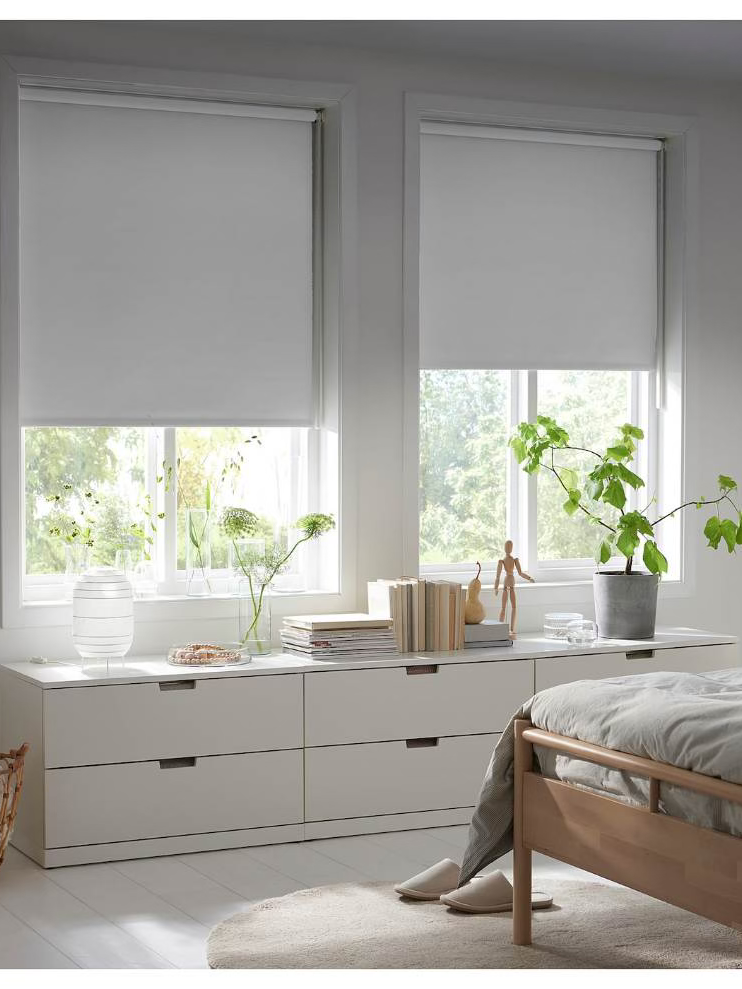
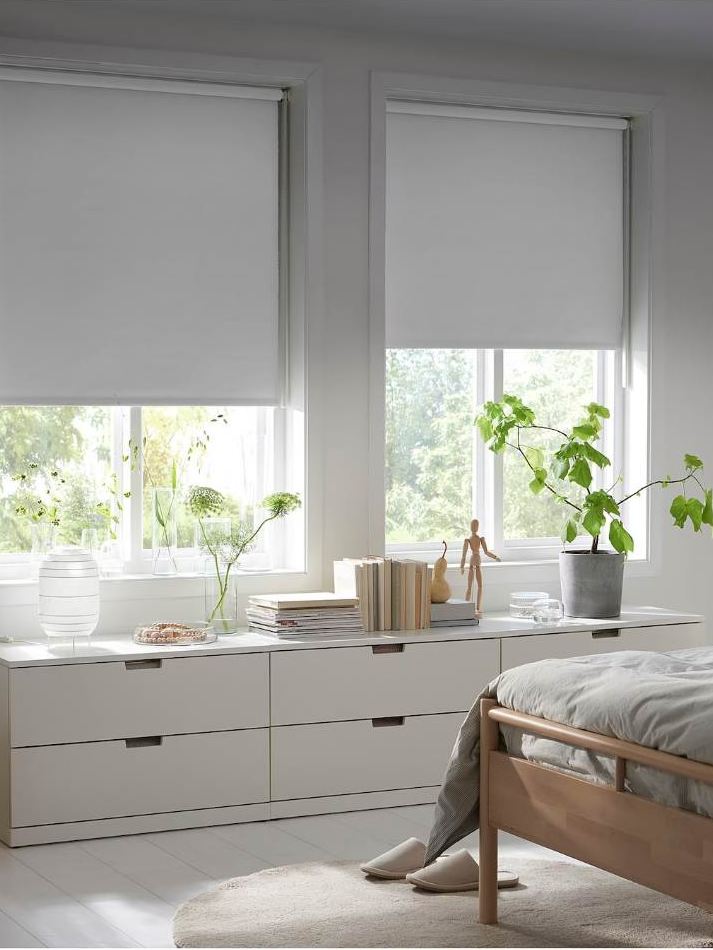
Added carousel component to the hero section

Changed region(s): [[0.0, 0.0611, 1.0, 1.0], [0.0, 0.0, 1.0, 0.0305]]

diff --git a/src/app/page.js b/src/app/page.js
@@ -4,16 +4,13 @@ import { useEffect, useRef, useState } from "react";
 import Image from "next/image";
 import ContactForm from "@/components/ContactForm";
 import { bp_large } from "../../constants/breakpoints";
+import Carousel from "react-multi-carousel";
+import "react-multi-carousel/lib/styles.css";
 
 let index = 0;
 
 export default function Home() {
-  const slidesImages = [
-    "/background/slides/Slide 1.png",
-    "/background/slides/Slide 2.png",
-    "/background/slides/Slide 3.png",
-  ];
-  const singleImages = [
+  const slides = [
     "/background/singles/image0000011.png",
     "/background/singles/image0000021.png",
     "/background/singles/image0000031.png",
@@ -26,36 +23,10 @@ export default function Home() {
     "/background/singles/image0000101.png",
   ];
 
-  const [currentSlideImage, setCurrentSlideImage] = useState(slidesImages[0]);
-
-  // Changes the background image of hero section every 5 seconds
-  useEffect(() => {
-    const interval = setInterval(() => {
-      index < slidesImages.length - 1 ? (index += 1) : (index = 0);
-      setCurrentSlideImage(slidesImages[index]);
-    }, 4000);
-
-    return () => clearInterval(interval);
-  });
-
-  // Changes the hero's section background image based on arrow selected
-  function handleArrowClick(e) {
-    if (e.target.alt == "left arrow") {
-      index > 0 ? (index -= 1) : (index = slidesImages.length - 1);
-      setCurrentSlideImage(slidesImages[index]);
-    } else {
-      index < slidesImages.length - 1 ? (index += 1) : (index = 0);
-      setCurrentSlideImage(slidesImages[index]);
-    }
-  }
-
   return (
     <main>
       {/* Hero section */}
-      <HeroSection
-        currentSlideImage={currentSlideImage}
-        handleArrowClick={handleArrowClick}
-      />
+      <HeroSection slides={slides} />
 
       {/* About section */}
       <AboutSection />
@@ -74,48 +45,76 @@ export default function Home() {
 
 // ----------------------- LOCAL COMPONENTS -----------------------
 
-function HeroSection({ currentSlideImage, handleArrowClick }) {
-  const screenWidth = useRef(0);
+function HeroSection({ slides }) {
+  const settings = {
+    dots: true,
+    infinite: true,
+    speed: 500,
+    slidesToShow: 3,
+    slidesToScroll: 1,
+  };
 
   return (
-    <>
-      {/* Background images */}
-      <div className="relative" id="hero">
-        <div className="h-full w-full">
-          <div className="w-full">
-            <Image
-              className="w-full h-full object-cover"
-              width={3000}
-              height={3000}
-              src={currentSlideImage}
-              alt="blinds"
-            />
-          </div>
-        </div>
-      </div>
-
-      {/* Buttons to go next and previous */}
-      <div className="bg-gray-950/50 w-full relative bottom-12 py-2">
-        <div className="container mx-auto flex justify-between">
-          <button onClick={(e) => handleArrowClick(e)}>
-            <Image
-              src="/icons/211689_left_arrow_icon (1).svg"
-              alt="left arrow"
-              width={32}
-              height={32}
-            />
-          </button>
-          <button onClick={(e) => handleArrowClick(e)}>
-            <Image
-              src="/icons/211607_right_arrow_icon.svg"
-              alt="right arrow"
-              width={32}
-              height={32}
-            />
-          </button>
-        </div>
-      </div>
-    </>
+    <section className="lg:h-108" id="hero">
+      <Carousel
+        additionalTransfrom={0}
+        arrows
+        autoPlay
+        autoPlaySpeed={3000}
+        centerMode={false}
+        className="h-full"
+        containerClass="container-with-dots"
+        dotListClass=""
+        draggable
+        focusOnSelect={false}
+        infinite
+        itemClass=""
+        keyBoardControl
+        minimumTouchDrag={80}
+        pauseOnHover
+        renderArrowsWhenDisabled={false}
+        renderButtonGroupOutside={false}
+        renderDotsOutside={false}
+        responsive={{
+          desktop: {
+            breakpoint: {
+              max: 3000,
+              min: 1024,
+            },
+            items: 3,
+            partialVisibilityGutter: 40,
+          },
+          mobile: {
+            breakpoint: {
+              max: 464,
+              min: 0,
+            },
+            items: 1,
+            partialVisibilityGutter: 30,
+          },
+          tablet: {
+            breakpoint: {
+              max: 1024,
+              min: 464,
+            },
+            items: 2,
+            partialVisibilityGutter: 30,
+          },
+        }}
+        rewind={false}
+        rewindWithAnimation={false}
+        rtl={false}
+        shouldResetAutoplay
+        showDots={false}
+        sliderClass=""
+        slidesToSlide={3}
+        swipeable
+      >
+        {slides.map((src) => (
+          <Image key={src} src={src} height={3000} width={3000} alt="product" />
+        ))}
+      </Carousel>
+    </section>
   );
 }
 
@@ -123,13 +122,15 @@ function AboutSection() {
   return (
     <section className="py-14 pt-28">
       <div className="container mx-auto flex space-x-20 items-center">
-        <Image
-          className="rounded"
-          src="/background/singles/image0000041.png"
-          width={600}
-          height={600}
-          alt="window blinds"
-        />
+        <div className="w-full">
+          <Image
+            className="rounded h-full"
+            src="/background/singles/image0000041-landscape.png"
+            width={3000}
+            height={3000}
+            alt="window blinds"
+          />
+        </div>
 
         <div>
           <h2 className="text-6xl uppercase font-semibold mb-5">

diff --git a/tailwind.config.js b/tailwind.config.js
@@ -49,6 +49,18 @@ module.exports = {
         verticalWipeBackward:
           "verticalWipeBackward 0.5s ease-in-out 0s 1 normal forwards",
       },
+
+      height: {
+        100: "30rem",
+        101: "32rem",
+        102: "34rem",
+        103: "36rem",
+        104: "38rem",
+        105: "40rem",
+        106: "42rem",
+        107: "44rem",
+        108: "46rem",
+      },
     },
   },
   plugins: [],

diff --git a/src/app/globals.css b/src/app/globals.css
@@ -57,9 +57,10 @@
 }
 
 #hero {
-  height: 50%;
-  padding-top: 50px;
+  padding-top: 136px;
+  position: relative;
 }
+
 #hero-img {
   transform: translate(-50%, -50%);
 }
